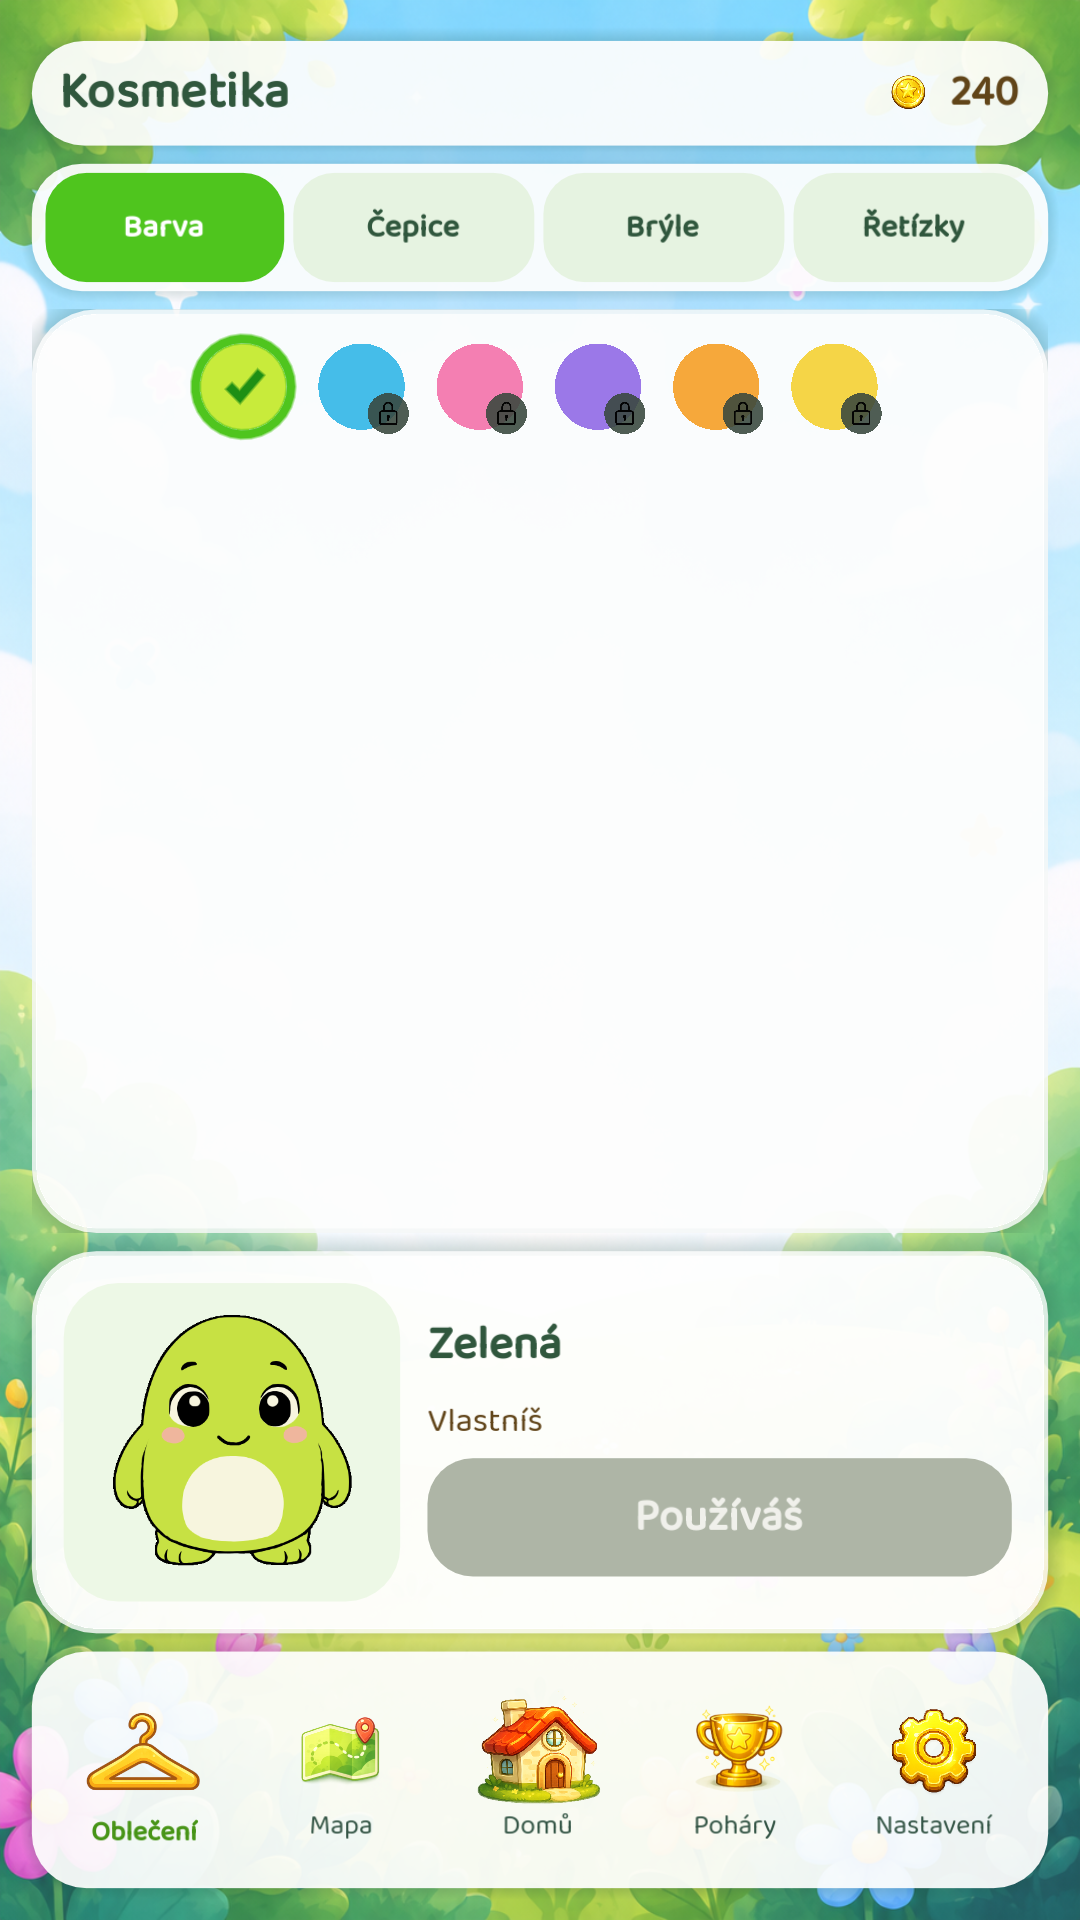
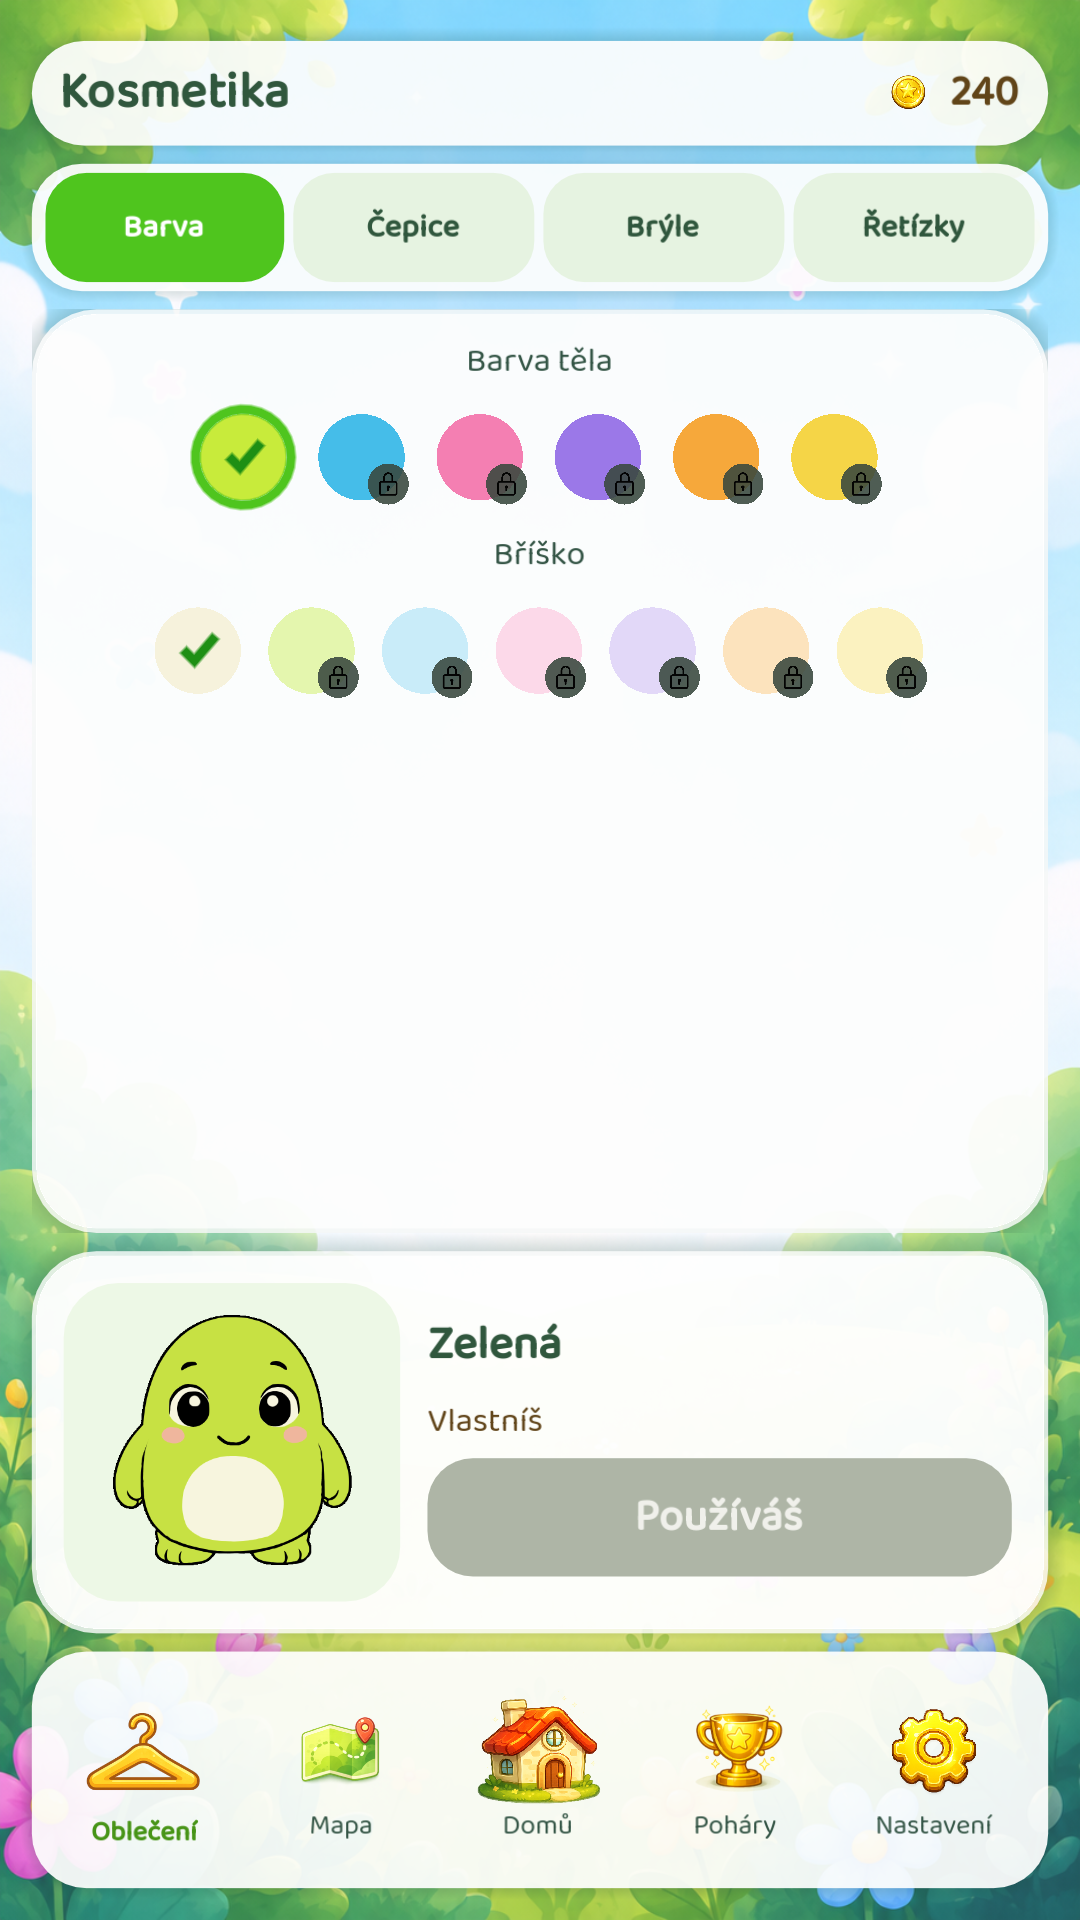
shop_belly_color

Changed region(s): [[0.1222, 0.1562, 0.7028, 0.375], [0.6722, 0.3125, 0.8556, 0.375], [0.7333, 0.1562, 0.825, 0.2812]]

diff --git a/docs/TASKS.md b/docs/TASKS.md
@@ -146,14 +146,20 @@ Status values: `TODO`, `WIP(@agent)`, `BLOCKED(reason)`, `DONE`.
   theme, scene font references, UI tests, docs.
 - `B25 DONE` Add the supplied pirate eye patch to the glasses catalog under the 100-coin contract.
   Owns: cosmetic catalog, localization, and state tests.
+- `B26 DONE` Belly-color row in the Cosmetics color tab: labeled body/belly swatch rows, shared
+  swatch preview/purchase flow, and shader belly mask on the blob. Depends: C15. Owns: cosmetics
+  scene/script, blob character, shader, localization, UI tests, capture harness.
 - `C14 DONE` Save version 7: optional sanitized nickname (`LocalNickname`, max 16 chars) and a
   stable random `profile_id`, preserved across every save path and cleared on profile reset.
   Owns: save manager, app state, event bus, and state tests.
+- `C15 DONE` Belly-color catalog (free cream + six 100-coin pastels) with backward-compatible
+  cosmetics persistence in save v7. Owns: cosmetic catalog, local cosmetics, app state, state
+  tests.
 - `D14 DONE` Adaptive Android launcher icons (foreground/background/monochrome 432px), proper
   192px legacy icon, and branded boot splash. Owns: `ui/branding/android/`, project/export
   configuration, and smoke contract.
 - `D15 DONE` Release manifest fixes: VIBRATE permission for the chest haptic, Android device
-  backup enabled, and the 1.0.0 / version-code-2 bump across all presets. Owns: export presets,
+  backup enabled, and the 0.2.1 / version-code-2 bump across all presets. Owns: export presets,
   project configuration, smoke contract, `docs/RELEASES.md`.
 - `D16 DONE` AAB verification tool (`tools/verify-aab.ps1`): structure, both ABIs, jarsigner
   signature, and optional bundletool manifest assertions. Owns: `tools/`, release documentation.

diff --git a/docs/DECISIONS.md b/docs/DECISIONS.md
@@ -201,6 +201,17 @@
 - Web saves remain in browser storage for the deployment origin. Clearing site data or moving the
   build to a different origin starts a new local profile; no account or cloud migration is added.
 
+## 2026-08-02 — Belly color row in the Cosmetics color tab
+
+- The Colors tab gains a second labeled swatch row for the belly. The original cream belly is
+  free and default; six pastel shades derived from the body palette cost the standard 100 coins
+  each and follow the existing purchase/equip/local-save contract.
+- Rendering reuses the body-color shader with a second mask: the bright low-saturation belly
+  region is multiplied toward the chosen pastel, preserving painted shading. The cream default
+  applies zero strength, leaving the original artwork untouched.
+- Persistence adds `unlocked_belly_colors` / `selected_belly_color` to the cosmetics dictionary
+  inside save v7; older saves default to cream without migration.
+
 ## 2026-08-02 — Baloo 2 replaces Fredoka as the primary typeface
 
 - Baloo 2 (variable, Google Fonts, SIL OFL 1.1) is the primary UI font, keeping the existing

diff --git a/docs/ROADMAP.md b/docs/ROADMAP.md
@@ -60,7 +60,7 @@ Acceptance: progression improves willingness to practice again without distracti
 
 - ☑ Final icons (adaptive foreground/background/monochrome), boot splash, store text and
   9:16 screenshots (`store/`), privacy disclosure (`docs/privacy/`, GitHub Pages), and
-  versioning (1.0.0 / code 2). ☐ Release keystore generation remains a manual step.
+  versioning (0.2.1 / code 2). ☐ Release keystore generation remains a manual step.
 - ☐ Signed AAB verified via `tools/verify-aab.ps1` and installed through an internal test track.
 - ☐ Physical-device lifecycle, safe areas, package size, and offline behavior verified.
 - Windows and Web builds remain convenient matching test targets.

diff --git a/docs/RELEASES.md b/docs/RELEASES.md
@@ -7,7 +7,7 @@
 - Windows: x86-64 centered portrait window.
 - Web: adaptive static canvas; phone view fits the available viewport and 900×900 is the wide
   desktop QA reference.
-- The public version comes from `application/config/version` (currently `1.0.0`) and stays
+- The public version comes from `application/config/version` (currently `0.2.1`) and stays
   aligned with the Android version name (Play version code `2`) and the Windows product version.
   All four values are pinned by `tests/smoke/test_project_contract.gd`; bump them together.
 - Privacy policy URL for Play Console (data safety + store listing):
